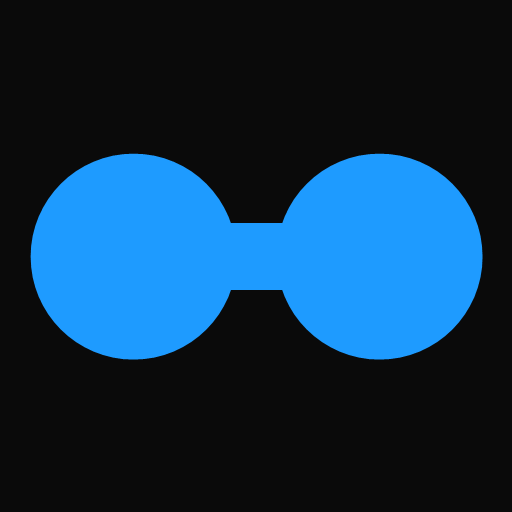
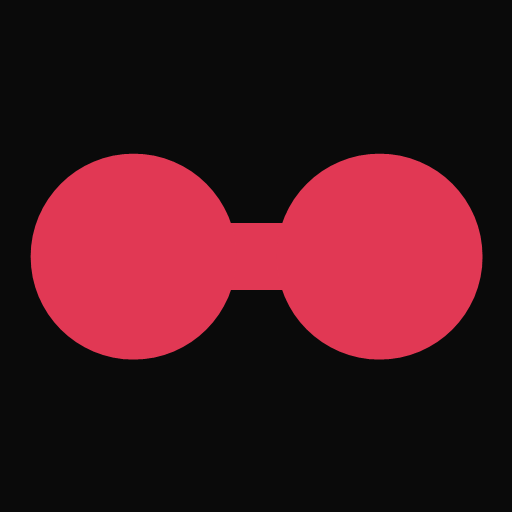
Replace electric blue accent with crimson red
- theme.js/style.css: --accent is now #e13854 (dark mode) / #c41e3a
  (light mode). Crimson's natural lightness doesn't read well as plain
  text/icon color against both a near-black AND a white background at
  once: the true crimson (#c41e3a, close to the requested #C41E3A)
  clears ~5.8:1 against white but only ~3.4:1 against near-black, so
  dark mode uses a brightened same-hue variant (#e13854, ~4.6:1) while
  light mode uses the true crimson value directly, mirroring the same
  per-mode-adjustment approach used for the two previous accent colors.
- manifest.json theme_color and index.html's <meta name="theme-color">
  updated to match.
- Full audit for leftover blue: only remaining hex hit anywhere is
  PresetAvatars.js's "Blue" mascot outfit color option, which is a
  user-picked avatar customization choice, unrelated to the app's own
  accent -- left untouched, same call made for pink/gold avatar colors
  in earlier passes.
- Interim recolor of the placeholder dumbbell PWA icons (all 6: icon-192/
  512, their maskable variants, apple-touch-icon, favicon) from blue to
  crimson, same geometry as before, just the fill color -- these get
  fully replaced once the real logo is available, this just keeps them
  from being a stray leftover blue in the meantime.

Note: --status-critical (error/delete indicator) stays red in both
modes and is now a close hue neighbor of the new crimson accent --
flagging this to the user as a semantic-clarity tradeoff worth a look,
[…]

Changed region(s): [[0.0625, 0.2812, 0.9688, 0.7188]]

diff --git a/src/lib/theme.js b/src/lib/theme.js
@@ -9,28 +9,28 @@ window.App = window.App || {};
  *
  * Color is NOT user-customizable -- Settings only offers a light/dark mode
  * toggle (App.Pages.Settings), and every color value here comes from one of
- * the two fixed PRESETS below. There is exactly one accent (electric blue)
- * used everywhere, including Community -- it used to get its own fixed
- * amber/orange identity via a separate override, which has been removed
- * entirely so every section reads the same --accent consistently.
+ * the two fixed PRESETS below. There is exactly one accent (crimson red,
+ * matching the app's logo) used everywhere, including Community -- it used
+ * to get its own fixed amber/orange identity via a separate override,
+ * which has been removed entirely so every section reads the same
+ * --accent consistently.
  *
- * Light mode's accent is a deliberately darker shade of the same blue, not
- * the dark-mode value reused as-is -- the dark-mode blue (#1e9bff) only
- * clears ~2.9:1 contrast against a white background, short of WCAG AA's
- * 4.5:1 body-text threshold, since it's used as plain text/icon color in a
- * lot of places, not just button fills with their own ink color. #006cc2
- * (same hue/saturation, lower lightness) clears ~5.3:1. accentInk is a
- * fixed per-preset value rather than computed from luminance -- with only
- * two known accent values now (not an arbitrary user-chosen one), each was
- * checked by hand against both candidate inks and the actual WCAG contrast
- * ratio picked the winner (dark mode: black ink at ~7.2:1 clearly beats
- * white's ~2.9:1, despite blue's naive perceptual-luminance weighting
- * suggesting white -- that naive heuristic is well known to misjudge
- * blues, which is exactly why this is hand-picked instead). The
- * chart/gauge/status tokens are similarly given a light counterpart rather
- * than left dark-tuned, since e.g. --gridline (#232323, barely lighter
- * than dark mode's near-black bg) would render as a heavy near-black line
- * across a white page if left unchanged.
+ * Dark and light mode use two different shades of the same crimson hue,
+ * not one value reused as-is, because crimson's natural lightness doesn't
+ * read well as plain text/icon color against BOTH a near-black and a
+ * white background at once: a true crimson like #c41e3a clears ~5.8:1
+ * against white (comfortably past WCAG AA's 4.5:1 body-text threshold)
+ * but only ~3.4:1 against near-black -- so dark mode uses a brightened
+ * variant (#e13854, same hue/saturation, higher lightness) that clears
+ * ~4.6:1 instead, while light mode uses the true crimson value directly.
+ * accentInk is a fixed per-preset value rather than computed from
+ * luminance -- with only two known accent values (not an arbitrary
+ * user-chosen one), each was checked by hand against both candidate inks
+ * and the actual WCAG contrast ratio picked the winner. The chart/gauge/
+ * status tokens are similarly given a light counterpart rather than left
+ * dark-tuned, since e.g. --gridline (#232323, barely lighter than dark
+ * mode's near-black bg) would render as a heavy near-black line across a
+ * white page if left unchanged.
  */
 App.Theme = (function () {
   const PRESETS = {
@@ -38,7 +38,7 @@ App.Theme = (function () {
       bg: '#0a0a0a',
       surface: '#161616',
       text: '#f5f5f5',
-      accent: '#1e9bff',
+      accent: '#e13854',
       accentInk: '#0a0a0a',
       gridline: '#232323',
       baseline: '#3c3c3c',
@@ -51,7 +51,7 @@ App.Theme = (function () {
       bg: '#ffffff',
       surface: '#f2f2f2',
       text: '#1a1a1a',
-      accent: '#006cc2',
+      accent: '#c41e3a',
       accentInk: '#ffffff',
       gridline: '#e4e4e4',
       baseline: '#c7c7c7',

diff --git a/style.css b/style.css
@@ -9,15 +9,15 @@
   --text-muted: #666666;
   --border: rgba(255, 255, 255, 0.09);
 
-  /* Baseline accent is electric blue -- --accent-rgb is the plain "r, g, b"
-     triplet (no rgba() wrapper) so any rule needing a non-default alpha can
-     do rgba(var(--accent-rgb), X) and still react correctly if this default
-     ever changes, instead of hardcoding a color that only ever matched
-     this one. One single accent everywhere, including Community, which
-     used to get its own fixed amber/orange override -- removed, see
-     App.Theme. */
-  --accent: #1e9bff;
-  --accent-rgb: 30, 155, 255;
+  /* Baseline accent is crimson red, matching the app's logo -- --accent-rgb
+     is the plain "r, g, b" triplet (no rgba() wrapper) so any rule needing
+     a non-default alpha can do rgba(var(--accent-rgb), X) and still react
+     correctly if this default ever changes, instead of hardcoding a color
+     that only ever matched this one. One single accent everywhere,
+     including Community, which used to get its own fixed amber/orange
+     override -- removed, see App.Theme. */
+  --accent: #e13854;
+  --accent-rgb: 225, 56, 84;
   --accent-ink: #0a0a0a;
   --accent-glow: rgba(var(--accent-rgb), 0.35);
 

diff --git a/index.html b/index.html
@@ -3,7 +3,7 @@
 <head>
   <meta charset="UTF-8" />
   <meta name="viewport" content="width=device-width, initial-scale=1, maximum-scale=1" />
-  <meta name="theme-color" content="#1E9BFF" />
+  <meta name="theme-color" content="#E13854" />
   <title>Crimson Rep — Find Your True Max</title>
 
   <!-- PWA: installability. No functional change to the app itself -- just

diff --git a/sw.js b/sw.js
@@ -17,7 +17,7 @@
 // file's own bytes -- if this string doesn't change, the browser has no
 // way to know the precached files are stale, and anyone with the PWA
 // already installed keeps getting the old cached version indefinitely.
-const CACHE_VERSION = 'crimson-rep-v19';
+const CACHE_VERSION = 'crimson-rep-v20';
 
 const PRECACHE_URLS = [
   './',
